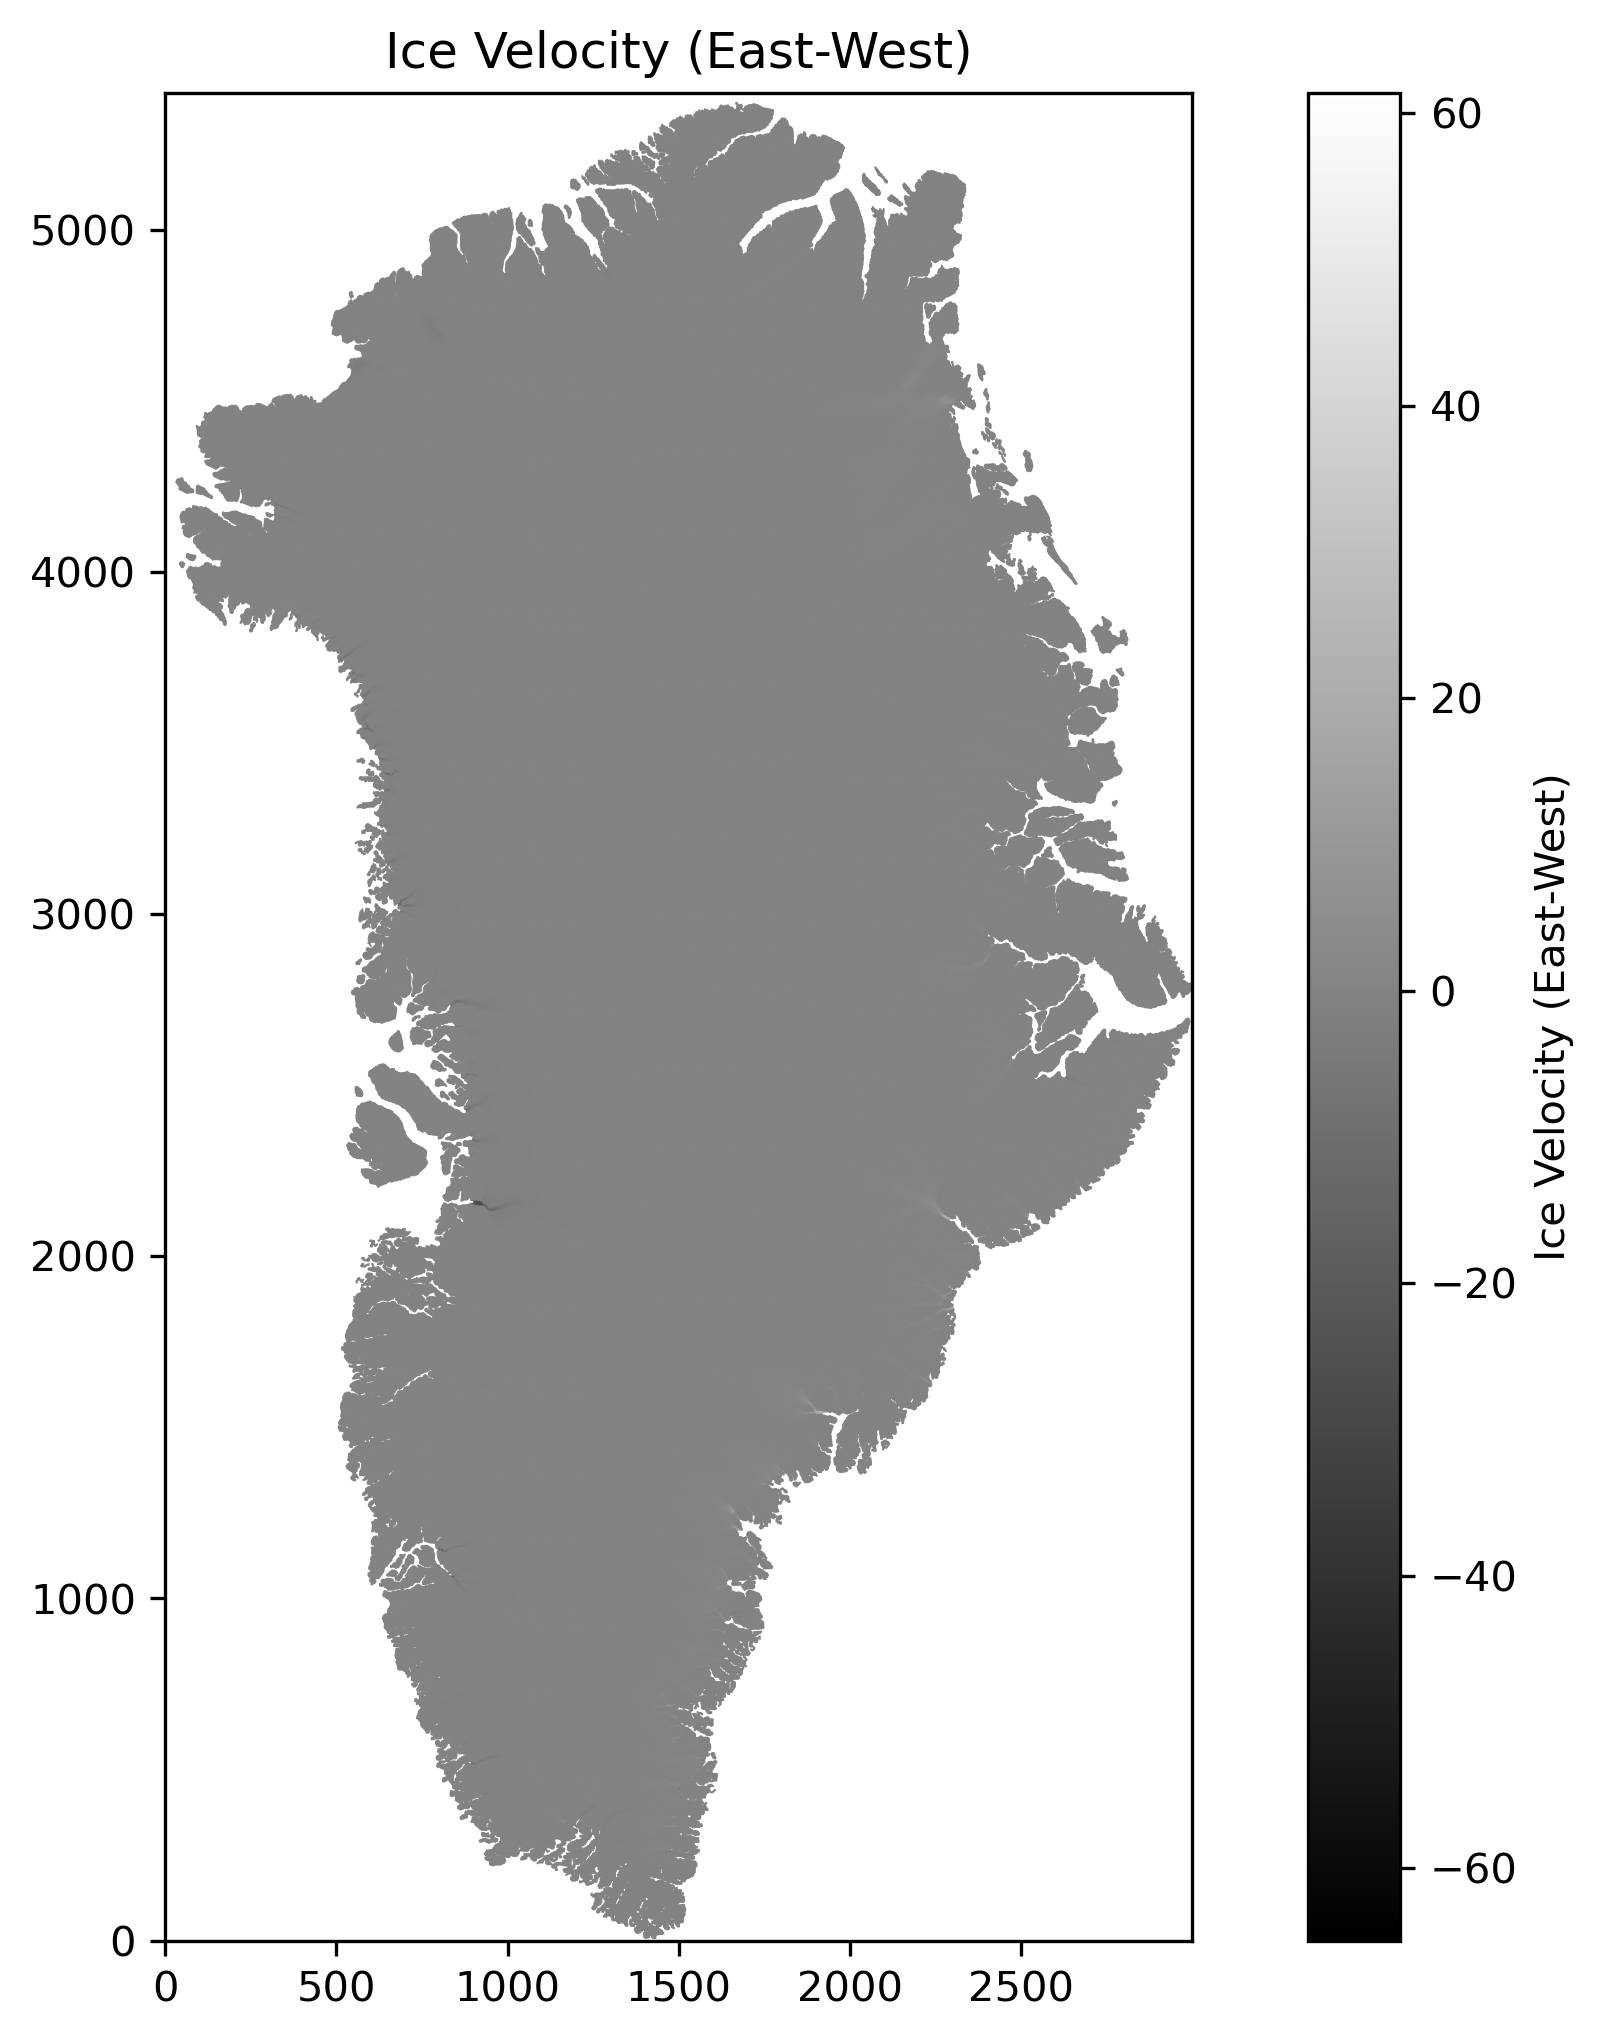
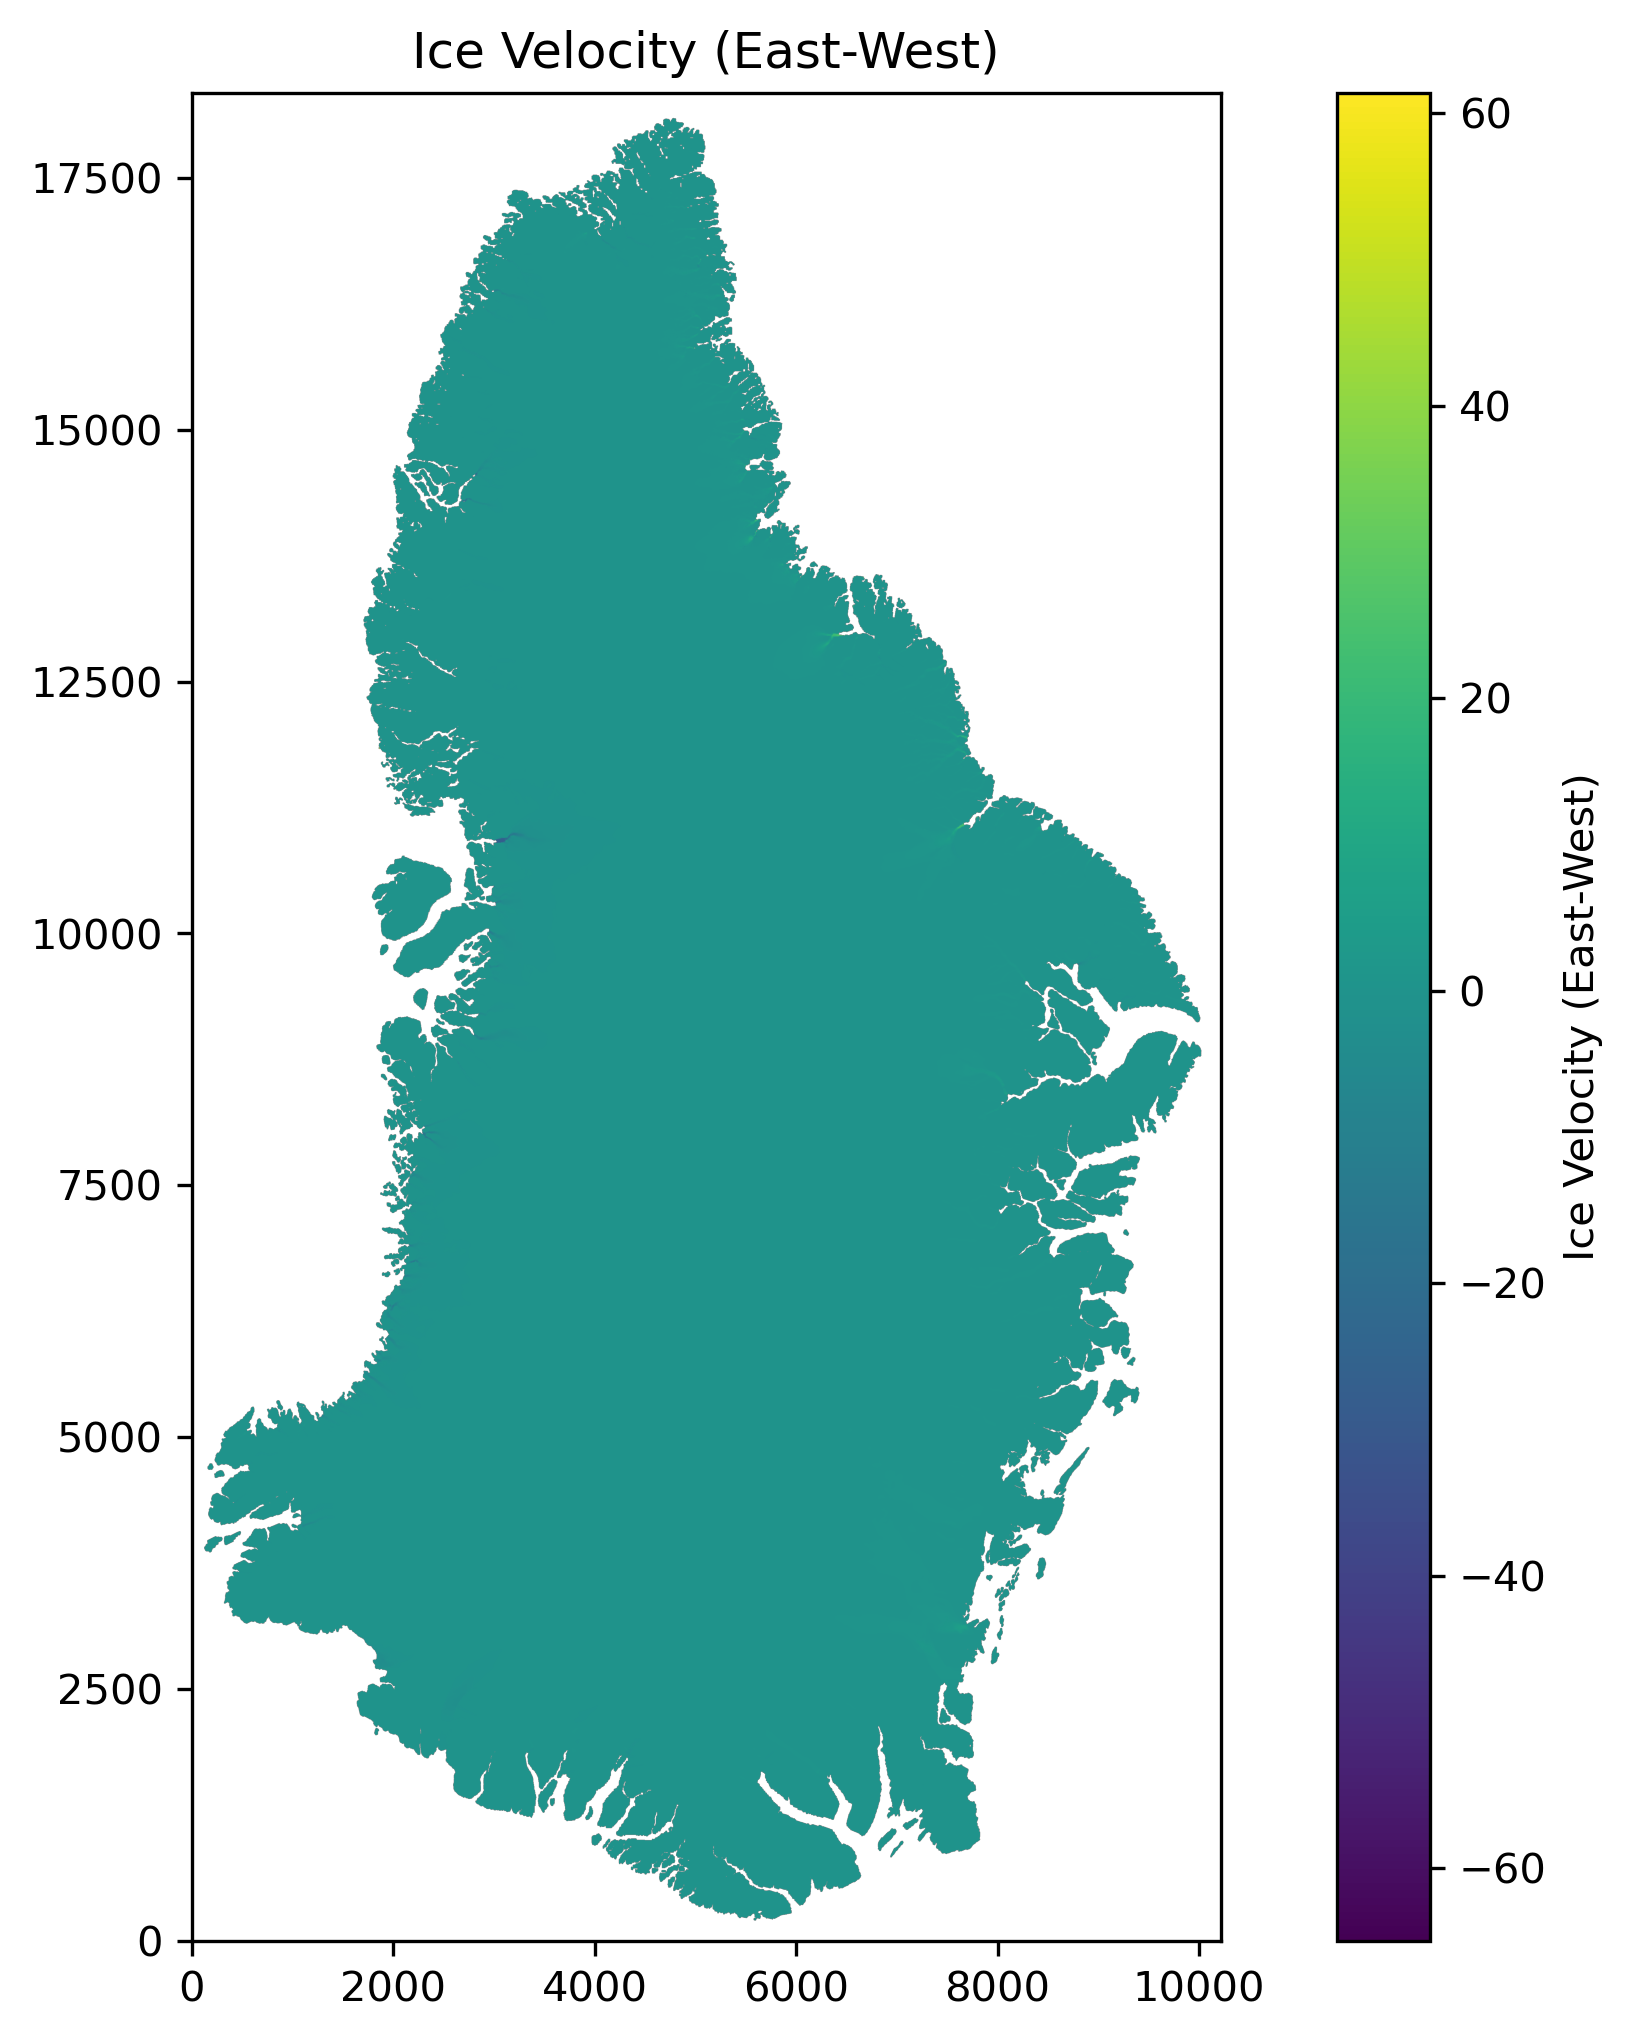
push to run on hpc

diff --git a/data/data_preprocessing.py b/data/data_preprocessing.py
@@ -3,98 +3,106 @@ import tarfile
 import torch
 import numpy as np
 import xarray as xr
+import rioxarray
 from PIL import Image
 from torch.utils.data import Dataset, DataLoader
-import matplotlib.pyplot as plt
+from utils import plot_tensor
 
-Image.MAX_IMAGE_PIXELS = None  
+Image.MAX_IMAGE_PIXELS = None
 
-class ArcticDEMDataset(Dataset):
+class ArcticDataloader(Dataset):
     def __init__(self, bedmachine_path, arcticdem_path, ice_velocity_path):
-        """ Initializes the dataset by loading data from NetCDF and GeoTIFF files. """
-        
+        """ Initializes the dataset by loading and aligning data from NetCDF and GeoTIFF files. """
+
         self.bedmachine_data = xr.open_dataset(bedmachine_path)
+
+        # Ensure BedMachine CRS is set (Polar Stereographic for Greenland)
+        self.bedmachine_data.rio.write_crs("EPSG:3413", inplace=True)
+
         self.ice_velocity_data = xr.open_dataset(ice_velocity_path)
-        
-        # Extract and read ArcticDEM data
+        self.ice_velocity_data.rio.write_crs("EPSG:3413", inplace=True)
+
+        # Extract ArcticDEM from .tar file
         extracted_path = "data/arcticdem_extracted"
         os.makedirs(extracted_path, exist_ok=True)
         with tarfile.open(arcticdem_path) as tar:
             tar.extractall(path=extracted_path, filter="fully_trusted")
-        
+
         tif_file = "arcticdem_mosaic_500m_v4.1_dem.tif"
         self.arcticdem_tif_path = os.path.join(extracted_path, tif_file)
 
-        # Convert data to tensors
-        self.height_map_icecap_tensor = self.read_arcticdem_data()
-        self.errbed_tensor = torch.tensor(self.bedmachine_data['errbed'].values.astype(np.float32))
-        self.ice_velocity_x_tensor = torch.tensor(self.ice_velocity_data['land_ice_surface_easting_velocity'].values.astype(np.float32)).squeeze(0)
-        self.ice_velocity_y_tensor = torch.tensor(self.ice_velocity_data['land_ice_surface_northing_velocity'].values.astype(np.float32)).squeeze(0)
+        # Read and align ArcticDEM data
+        self.height_map_icecap_tensor = self.read_icecap_height_data()
 
-        # Process tensors to match orientation
-        self.height_map_icecap_tensor = self.process_tensor(self.height_map_icecap_tensor)
-        self.errbed_tensor = self.process_tensor(self.errbed_tensor)
-        self.ice_velocity_x_tensor = self.process_tensor(self.ice_velocity_x_tensor)
-        self.ice_velocity_y_tensor = self.process_tensor(self.ice_velocity_y_tensor)
+        # Align Ice Velocity data
+        self.ice_velocity_x_tensor = self.align_to_bedmachine(
+            self.ice_velocity_data['land_ice_surface_easting_velocity']
+        )
+        self.ice_velocity_y_tensor = self.align_to_bedmachine(
+            self.ice_velocity_data['land_ice_surface_northing_velocity']
+        )
 
-    def read_arcticdem_data(self):
-        """ Reads, crops, and converts ArcticDEM data to a PyTorch tensor. """
-        with Image.open(self.arcticdem_tif_path) as img:
-            width, height = img.size  
-            bottom_fraction = 0.36
-            side_fraction = 0.4
-            width_size_east = 7000
-            width_size_west = int(width * (1 - side_fraction))
-            crop_box = (width_size_east, int(height * (1 - bottom_fraction)), width_size_west, height)
+        # Align ArcticDEM to BedMachine grid
+        self.height_map_icecap_tensor = self.align_to_bedmachine(self.height_map_icecap_tensor)
 
-            cropped_img = img.crop(crop_box)
-            arcticdem_data = np.array(cropped_img, dtype=np.float32)
+        # Convert BedMachine 'errbed' to tensor
+        self.bedmachine = torch.tensor(self.bedmachine_data['errbed'].values.astype(np.float32)).unsqueeze(0)
 
-        return torch.tensor(arcticdem_data[:-1, :-1])
-    
+        # Process all tensors (flip and rotate for correct orientation)
+        #self.height_map_icecap_tensor = self.process_tensor(self.height_map_icecap_tensor)
+        self.bedmachine = self.process_tensor(self.bedmachine)
+        #self.ice_velocity_x_tensor = self.process_tensor(self.ice_velocity_x_tensor)
+        #self.ice_velocity_y_tensor = self.process_tensor(self.ice_velocity_y_tensor)
+
+        #print(f"Shape of Surface elevation data: {self.height_map_icecap_tensor.size()}")
+        #print(f"Shape of BedMachine data: {self.bedmachine.size()}")
+        #print(f"Shape of Ice Velocity (East-West) data: {self.ice_velocity_x_tensor.size()}")
+        #print(f"Shape of Ice Velocity (North-South) data: {self.ice_velocity_y_tensor.size()}")
+
+    def read_icecap_height_data(self):
+        """ Reads ArcticDEM data as a tensor. """
+        arcticdem_data = rioxarray.open_rasterio(self.arcticdem_tif_path)
+        arcticdem_data.rio.write_crs("EPSG:3413", inplace=True)
+        return arcticdem_data
+
+    def align_to_bedmachine(self, data):
+        """ Reprojects and aligns data to match the BedMachine grid. """
+        aligned = data.rio.reproject_match(self.bedmachine_data)
+        return torch.tensor(aligned.values.astype(np.float32))
+
     def process_tensor(self, tensor):
         """ Rotates and flips the tensor to correct its orientation. """
         return torch.flip(torch.rot90(tensor, 2, dims=(0, 1)), dims=(1,))
-    
+
     def __len__(self):
         """ Returns the number of available data points. """
-        return 1  # Since this dataset loads a single ArcticDEM instance
+        return 1
 
     def __getitem__(self, idx):
-        """ Returns the data as a dictionary. """
+        """ Returns the aligned data as a dictionary. """
         return {
-            'arcticdem': self.height_map_icecap_tensor,
-            'errbed': self.errbed_tensor,
+            'height_icecap': self.height_map_icecap_tensor,
+            'bed_elevation': self.bedmachine,
             'ice_velocity_x': self.ice_velocity_x_tensor,
             'ice_velocity_y': self.ice_velocity_y_tensor,
         }
 
-
-def plot_tensor(tensor, title, filename, cmap='gray'):
-    """ Generic function to plot PyTorch tensors and save the figure. """
-    plt.figure(figsize=(10, 8))
-    plt.imshow(tensor.cpu().numpy(), cmap=cmap, origin='lower') 
-    plt.colorbar(label=title)
-    plt.title(title)
-    plt.savefig(f"figures/{filename}", dpi=300, bbox_inches='tight')
-    plt.show()
-
 if __name__ == "__main__":
     os.makedirs("figures", exist_ok=True)
-    
-    dataset = ArcticDEMDataset(
-        bedmachine_path="data/BedMachineGreenland-v5.nc",
-        arcticdem_path="data/arcticdem_mosaic_500m_v4.1.tar",
-        ice_velocity_path="data/dataverse_files/Promice_AVG5year.nc"
+
+    dataset = ArcticDataloader(
+        bedmachine_path="data/Bedmachine/BedMachineGreenland-v5.nc",
+        arcticdem_path="data/Surface_elevation/arcticdem_mosaic_500m_v4.1.tar",
+        ice_velocity_path="data/Ice_velocity/Promice_AVG5year.nc",
     )
-    
+
     dataloader = DataLoader(dataset, batch_size=1, shuffle=False)
 
     for key, value in dataset[0].items():
         print(f"{key}: {value.size()}")
-    
-    # for batch in dataloader:
-    #     plot_tensor(batch['arcticdem'][0], "ArcticDEM Data", "arcticdem_plot.png")
-    #     plot_tensor(batch['errbed'][0], "Bed Topography/Ice Thickness Error", "errbed_plot.png")
-    #     plot_tensor(batch['ice_velocity_x'][0], "Ice Velocity (East-West)", "ice_velocity_x.png")
-    #     plot_tensor(batch['ice_velocity_y'][0], "Ice Velocity (North-South)", "ice_velocity_y.png")
+
+    for batch in dataloader:
+        plot_tensor(batch['height_icecap'][0], "ArcticDEM Data", "height_icecap.png")
+        plot_tensor(batch['bed_elevation'][0], "Bed Topography/Ice Thickness Error", "bed_elevation.png")
+        plot_tensor(batch['ice_velocity_x'][0], "Ice Velocity (East-West)", "ice_velocity_x.png")
+        plot_tensor(batch['ice_velocity_y'][0], "Ice Velocity (North-South)", "ice_velocity_y.png")

diff --git a/data/find_location.py b/data/find_location.py
@@ -1,0 +1,77 @@
+import xarray as xr
+import torch
+import numpy as np
+import random
+from tqdm import tqdm
+
+# TODO: This file should be a class that finds 5 100 x 100 areas to train in.
+
+class CroppedAreaGenerator:
+    def __init__(self, bedmachine_path, crop_size=100, num_crops=None):
+        self.bedmachine_path = bedmachine_path
+        self.crop_size = crop_size
+        self.num_crops = num_crops  # If None, generate as many as possible
+        self.bed_tensor, self.mask_tensor = self._load_and_preprocess_data()
+        self.valid_indices = self._find_valid_crop_indices()
+
+    def _load_and_preprocess_data(self):
+        bedmachine_data = xr.open_dataset(self.bedmachine_path)
+        errbed_tensor = torch.tensor(bedmachine_data['errbed'].values.astype(np.float32))
+        bed_tensor = torch.tensor(bedmachine_data['bed'].values.astype(np.float32))
+
+        errbed_tensor = torch.flip(torch.rot90(errbed_tensor, 2, dims=(0, 1)), dims=(1,))
+        bed_tensor = torch.flip(torch.rot90(bed_tensor, 2, dims=(0, 1)), dims=(1,))
+
+        mask_tensor = (errbed_tensor < 5).float()
+        return bed_tensor, mask_tensor
+
+    def _find_valid_crop_indices(self):
+        valid_indices = []
+        h, w = self.mask_tensor.shape
+        for i in tqdm(range(h - self.crop_size + 1), desc="Finding crops"):
+            for j in range(w - self.crop_size + 1):
+                crop_mask = self.mask_tensor[i:i + self.crop_size, j:j + self.crop_size]
+                if torch.all(crop_mask == 1):  # Check if ALL mask values in the crop are 1
+                    valid_indices.append((i, j))
+                    print("Found a crop!")
+        return valid_indices
+
+    def generate_crops(self):
+        if self.num_crops is None:
+            crops_to_generate = len(self.valid_indices)  # Generate all possible
+        else:
+            crops_to_generate = min(self.num_crops, len(self.valid_indices))  # Limit if num_crops is specified
+
+        if crops_to_generate == 0:
+            return []  # No valid crops found
+
+        selected_indices = random.sample(self.valid_indices, crops_to_generate)  # Randomly select crops
+        crops = []
+        for i, j in selected_indices:
+            crop = self.bed_tensor[i:i + self.crop_size, j:j + self.crop_size]
+            crops.append(crop)
+        return crops
+
+# Example usage:
+if __name__ == '__main__':
+    bedmachine_path = "data/Bedmachine/BedMachineGreenland-v5.nc"  # Replace with your path
+    crop_generator = CroppedAreaGenerator(bedmachine_path, num_crops=5) # Generate 100 crops, or as many as possible if num_crops=None
+    cropped_areas = crop_generator.generate_crops()
+
+    if cropped_areas:
+        print(f"Generated {len(cropped_areas)} cropped areas.")
+    for i, crop in enumerate(cropped_areas):
+        print(f"Crop {i+1} shape: {crop.shape}") # Should be torch.Size([100, 100])
+        # ... use the crops for training ...
+    else:
+        print("No valid crops found.")
+
+    # To get a single crop:
+    crop_generator_single = CroppedAreaGenerator(bedmachine_path, num_crops=1)
+    single_crop = crop_generator_single.generate_crops()
+    if single_crop:
+        print(single_crop[0].shape) #Should be torch.Size([100, 100])
+
+
+
+

diff --git a/data/utils.py b/data/utils.py
@@ -1,0 +1,17 @@
+import matplotlib.pyplot as plt
+
+def plot_tensor(tensor, title, filename, cmap='viridis', show=False):
+    """ Generic function to plot PyTorch tensors and save the figure. """
+    plt.figure(figsize=(10, 8))
+    tensor = tensor.squeeze(0)
+    if tensor.ndim == 2:
+        plt.imshow(tensor, cmap=cmap, origin='lower')
+    else:
+        plt.imshow(tensor.cpu().numpy(), cmap=cmap, origin='lower') 
+
+    plt.colorbar(label=title)
+    plt.title(title)
+    plt.savefig(f"figures/{filename}", dpi=300, bbox_inches='tight')
+    if show:
+        plt.show()
+    
